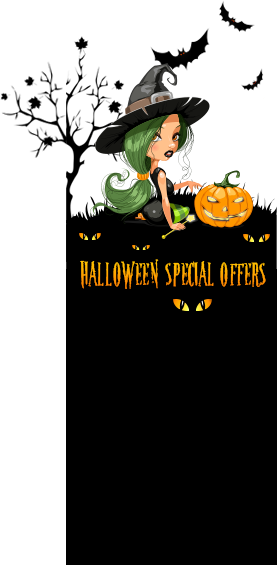
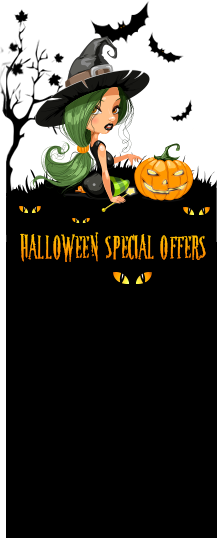
browser compatibility fix

diff --git a/skin/frontend/base/default/css/belvg/halloween.css b/skin/frontend/base/default/css/belvg/halloween.css
@@ -1,13 +1,12 @@
 /* Default */
 .belvg-promo-wrapper * { padding:0; margin:0; border:0; background:none; }
-.belvg-promo-wrapper { position:fixed; top:80px; z-index:10000; }
+.belvg-promo-wrapper { position:fixed; top:50px; z-index:10000; }
 .belvg-promo-close { position:absolute; z-index:2; opacity:0.8; filter:alpha(opacity=80); }
 .belvg-promo-close:hover { opacity:1; filter:alpha(opacity=100); }
 .belvg-promo-close span { display:none; }
 .belvg-promo-products { border-collapse:collapse; border-spacing:0; font:12px/1.3 Roboto, 'Helvetica Neue', 'HelveticaNeue', Helvetica, FreeSans, 'Liberation Sans', 'Nimbus Sans L', sans-serif; }
 .belvg-promo-products td { vertical-align:middle; padding:6px 5px; }
-.belvg-promo-products .product-image { position:relative; display:block; font:0/0 a; }
-.belvg-promo-products .product-image:after { content:''; display: block; position:absolute; z-index:2; }
+.belvg-promo-products .product-image { display:block; font:0/0 a; }
 .belvg-promo-products .product-name { font-size:14px; line-height:1.2; margin:0 0 4px; max-height:35px; overflow:hidden; }
 .belvg-promo-products .product-name a { color:#000; text-decoration:none; }
 .belvg-promo-products .product-name a:hover { text-decoration:underline; }
@@ -34,21 +33,20 @@
 .belvg-promo-theme-easterday.belvg-promo-position-right { right:-16px; }
 .belvg-promo-theme-easterday .belvg-promo-close { top:88px; right:34px; width:17px; height:17px; background:url(../../images/belvg/halloween/easterday/close.png); }
 .belvg-promo-theme-easterday .belvg-promo-products { margin:314px 36px 0; }
-.belvg-promo-theme-easterday .belvg-promo-products .product-image:after { width:35px; height:34px; left:-16px; bottom:-6px; background:url(../../images/belvg/halloween/easterday/decorative.png); }
 .belvg-promo-theme-easterday .belvg-promo-products .product-name a { color:#52960b; }
 .belvg-promo-theme-easterday .belvg-promo-products .price-box .regular-price .price,
 .belvg-promo-theme-easterday .belvg-promo-products .price-box .special-price .price { color:#e25f28; }
 
 /* Halloween */
-.belvg-promo-theme-halloween { width:277px; height:565px; background:url(../../images/belvg/halloween/halloween/bg.png); }
-.belvg-promo-theme-halloween.belvg-promo-position-left { left:-66px; }
+.belvg-promo-theme-halloween { width:217px; height:538px; background:url(../../images/belvg/halloween/halloween/bg.png); }
+.belvg-promo-theme-halloween.belvg-promo-position-left { left:-6px; }
 .belvg-promo-theme-halloween.belvg-promo-position-right { right:0; }
-.belvg-promo-theme-halloween .belvg-promo-close { top:168px; right:4px; width:20px; height:20px; background:url(../../images/belvg/halloween/halloween/close.png); }
-.belvg-promo-theme-halloween .belvg-promo-products { margin:328px 10px 0 74px; }
+.belvg-promo-theme-halloween .belvg-promo-close { top:141px; right:4px; width:20px; height:20px; background:url(../../images/belvg/halloween/halloween/close.png); }
+.belvg-promo-theme-halloween .belvg-promo-products { margin:298px 10px 0 16px; }
 .belvg-promo-theme-halloween .belvg-promo-products td { background:#fff; border-bottom:6px solid #000; }
 .belvg-promo-theme-halloween .belvg-promo-products .product-name a { color:#35551f; }
 .belvg-promo-theme-halloween .belvg-promo-products .price-box .regular-price .price,
-.belvg-promo-theme-halloween .belvg-promo-products .price-box .special-price .price { color:#5b8544; }
+.belvg-promo-theme-halloween .belvg-promo-products .price-box .special-price .price { color:#ff9800; }
 
 /* Independence Day */
 .belvg-promo-theme-independenceday { width:218px; height:491px; background:url(../../images/belvg/halloween/independenceday/bg.png); }
@@ -61,11 +59,11 @@
 .belvg-promo-theme-independenceday .belvg-promo-products .price-box .special-price .price { color:#ff3440; }
 
 /* Labor Day */
-.belvg-promo-theme-laborday { width:314px; height:533px; background:url(../../images/belvg/halloween/laborday/bg.png); }
-.belvg-promo-theme-laborday.belvg-promo-position-left { left:-81px; }
-.belvg-promo-theme-laborday.belvg-promo-position-right { right:-16px; }
-.belvg-promo-theme-laborday .belvg-promo-close { top:38px; right:38px; width:17px; height:17px; background:url(../../images/belvg/halloween/laborday/close.png); }
-.belvg-promo-theme-laborday .belvg-promo-products { margin:292px 10px 0 92px; }
+.belvg-promo-theme-laborday { width:314px; height:495px; background:url(../../images/belvg/halloween/laborday/bg.png); }
+.belvg-promo-theme-laborday.belvg-promo-position-left { left:-44px; }
+.belvg-promo-theme-laborday.belvg-promo-position-right { right:-52px; }
+.belvg-promo-theme-laborday .belvg-promo-close { top:14px; right:62px; width:17px; height:17px; background:url(../../images/belvg/halloween/laborday/close.png); }
+.belvg-promo-theme-laborday .belvg-promo-products { margin:249px 60px 0 54px; }
 .belvg-promo-theme-laborday .belvg-promo-products .product-name a { color:#cf282f; }
 .belvg-promo-theme-laborday .belvg-promo-products .price-box .regular-price .price,
 .belvg-promo-theme-laborday .belvg-promo-products .price-box .special-price .price { color:#2ba1dc; }
@@ -76,32 +74,26 @@
 .belvg-promo-theme-newyear.belvg-promo-position-right { right:-16px; }
 .belvg-promo-theme-newyear .belvg-promo-close { top:28px; right:16px; width:20px; height:20px; background:url(../../images/belvg/halloween/newyear/close.png); }
 .belvg-promo-theme-newyear .belvg-promo-products { margin:306px 10px 0 70px; }
-.belvg-promo-theme-newyear .belvg-promo-products .product-image:after { width:42px; height:40px; left:-18px; top:-8px; background:url(../../images/belvg/halloween/newyear/decorative.png); }
 .belvg-promo-theme-newyear .belvg-promo-products .product-name a { color:#c30202; font-style:italic; }
 .belvg-promo-theme-newyear .belvg-promo-products .price-box .regular-price .price,
 .belvg-promo-theme-newyear .belvg-promo-products .price-box .special-price .price { color:#0f9109; }
 
 /* Patricks Day */
-.belvg-promo-theme-patricksday { width:376px; height:537px; background:url(../../images/belvg/halloween/patricksday/bg.png); }
-.belvg-promo-theme-patricksday.belvg-promo-position-left { left:-96px; }
-.belvg-promo-theme-patricksday.belvg-promo-position-right { right:-27px; }
-.belvg-promo-theme-patricksday .belvg-promo-close { top:136px; right:36px; width:17px; height:17px; background:url(../../images/belvg/halloween/patricksday/close.png); }
-.belvg-promo-theme-patricksday .belvg-promo-products { margin:280px 10px 0 144px; }
-.belvg-promo-theme-patricksday .belvg-promo-products .product-image:after { width:26px; height:24px; left:-12px; bottom:-6px; background:url(../../images/belvg/halloween/patricksday/decorative.png); }
+.belvg-promo-theme-patricksday { width:257px; height:604px; background:url(../../images/belvg/halloween/patricksday/bg.png); }
+.belvg-promo-theme-patricksday.belvg-promo-position-left { left:0; }
+.belvg-promo-theme-patricksday.belvg-promo-position-right { right:-16px; }
+.belvg-promo-theme-patricksday .belvg-promo-close { top:132px; right:24px; width:17px; height:17px; background:url(../../images/belvg/halloween/patricksday/close.png); }
+.belvg-promo-theme-patricksday .belvg-promo-products { margin:277px 23px 0 32px; }
 .belvg-promo-theme-patricksday .belvg-promo-products .product-name a { color:#000; }
 .belvg-promo-theme-patricksday .belvg-promo-products .price-box .regular-price .price,
-.belvg-promo-theme-patricksday .belvg-promo-products .price-box .special-price .price { color:#27a600; }
+.belvg-promo-theme-patricksday .belvg-promo-products .price-box .special-price .price { color:#006008; }
 
 /* Thanks Giving Day */
-.belvg-promo-theme-thanksgivingday { width:311px; height:557px; background:url(../../images/belvg/halloween/thanksgivingday/bg.png); }
-.belvg-promo-theme-thanksgivingday.belvg-promo-position-left { left:-78px; }
+.belvg-promo-theme-thanksgivingday { width:249px; height:519px; background:url(../../images/belvg/halloween/thanksgivingday/bg.png); }
+.belvg-promo-theme-thanksgivingday.belvg-promo-position-left { left:0; }
 .belvg-promo-theme-thanksgivingday.belvg-promo-position-right { right:-16px; }
-.belvg-promo-theme-thanksgivingday .belvg-promo-close { top:56px; right:18px; width:17px; height:17px; background:url(../../images/belvg/halloween/thanksgivingday/close.png); }
-.belvg-promo-theme-thanksgivingday .belvg-promo-products { margin:242px 10px 0 90px; }
-.belvg-promo-theme-thanksgivingday .belvg-promo-products .product-image:after { width:34px; height:30px; left:-4px; top:-8px; }
-.belvg-promo-theme-thanksgivingday .belvg-promo-products tr:nth-child(1) .product-image:after { background:url(../../images/belvg/halloween/thanksgivingday/decorative1.png); }
-.belvg-promo-theme-thanksgivingday .belvg-promo-products tr:nth-child(2) .product-image:after { background:url(../../images/belvg/halloween/thanksgivingday/decorative2.png); }
-.belvg-promo-theme-thanksgivingday .belvg-promo-products tr:nth-child(3) .product-image:after { background:url(../../images/belvg/halloween/thanksgivingday/decorative3.png); }
+.belvg-promo-theme-thanksgivingday .belvg-promo-close { top:28px; right:24px; width:17px; height:17px; background:url(../../images/belvg/halloween/thanksgivingday/close.png); }
+.belvg-promo-theme-thanksgivingday .belvg-promo-products { margin:203px 23px 0 24px; }
 .belvg-promo-theme-thanksgivingday .belvg-promo-products .product-name a { color:#da5102; }
 .belvg-promo-theme-thanksgivingday .belvg-promo-products .price-box .regular-price .price,
 .belvg-promo-theme-thanksgivingday .belvg-promo-products .price-box .special-price .price { color:#727312; }
@@ -111,8 +103,7 @@
 .belvg-promo-theme-valentinesday.belvg-promo-position-left { left:-46px; }
 .belvg-promo-theme-valentinesday.belvg-promo-position-right { right:-17px; }
 .belvg-promo-theme-valentinesday .belvg-promo-close { top:34px; right:18px; width:17px; height:17px; background:url(../../images/belvg/halloween/valentinesday/close.png); }
-.belvg-promo-theme-valentinesday .belvg-promo-products { margin:328px 10px 0 56px; }
-.belvg-promo-theme-valentinesday .belvg-promo-products .product-image:after { width:26px; height:24px; left:-12px; top:-6px; background:url(../../images/belvg/halloween/valentinesday/decorative.png); }
+.belvg-promo-theme-valentinesday .belvg-promo-products { margin:328px 24px 0 56px; }
 .belvg-promo-theme-valentinesday .belvg-promo-products .product-name a { color:#000; font-style:italic; }
 .belvg-promo-theme-valentinesday .belvg-promo-products .price-box .regular-price .price,
 .belvg-promo-theme-valentinesday .belvg-promo-products .price-box .special-price .price { color:#ff0000; }

diff --git a/app/code/community/Belvg/Halloween/Model/System/Config/Source/Event.php b/app/code/community/Belvg/Halloween/Model/System/Config/Source/Event.php
@@ -45,7 +45,7 @@ class Belvg_Halloween_Model_System_Config_Source_Event
     public function toOptionArray()
     {
         return array(
-                array('value' => 'cyberday', 'label' => Mage::helper('halloween')->__('Cyber Monday')),
+                array('value' => 'cyberday', 'label' => Mage::helper('halloween')->__('Cyber Day')),
                 array('value' => 'easterday', 'label' => Mage::helper('halloween')->__('Easter')),
                 array('value' => 'halloween', 'label' => Mage::helper('halloween')->__('Halloween')),
                 array('value' => 'independenceday', 'label' => Mage::helper('halloween')->__('Independence Day')),
@@ -56,4 +56,5 @@ class Belvg_Halloween_Model_System_Config_Source_Event
                 array('value' => 'valentinesday', 'label' => Mage::helper('halloween')->__('Valentine\'s Day')),
         );
     }
+
 }
